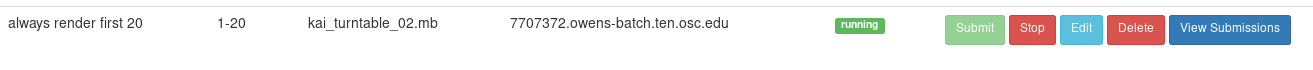
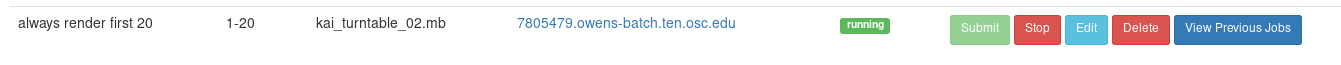
doc updates for job arrays

diff --git a/README.md b/README.md
@@ -88,7 +88,7 @@ Once you've created the settings you can always go back and edit it through the 
 And, for whatever reason, you decide you don't want it anymore simply press the ![edit](/docs/imgs/delete.PNG) button
 to delete it.
 
-## Submitting jobs and finding the output
+## Submitting jobs
 
 Now that you have a job all configured you're ready to submit it. to do so, Simply press the 
  ![submit](/docs/imgs/submit.PNG) button. 
@@ -106,19 +106,45 @@ Note how the  ![submit](/docs/imgs/submit.PNG) and ![stop](/docs/imgs/stop.PNG) 
 on if the job is currently running or not.  Now that the job is running, you may not submit a new job and you may stop
 the current job.  Once it is complete, then you may not stop it (becuase you can't) and you may submit a new job.
 
-In this example `7707372.owens-batch.ten.osc.edu` is the job id and we can view it's output under the project's `batch_jobs` directory. 
+## Finding the output
 
-There will now be a `batch_jobs/7707372.owens-batch.ten.osc.edu/7707372.owens-batch.ten.osc.edu.out` output file which is the log for
-this job. If you're having issues rendering files, look at these log files for errors.
+In this example `7805479.owens-batch.ten.osc.edu` is the job id and we can find it's output directory simply by clicking
+on the the job id.
 
-Specifically near the bottom, where you should see messages like this.  If you need to increase the log level, see [below](#Extra-arguements)
-on how to do that.
+There will now be a directory like `batch_jobs/1567629055` and a file `maya-render.7805479` which is the output log for
+this job. If you're having issues rendering files, look at these log files for errors. If you need to increase the 
+log level, see [below](#Extra-arguements) on how to do that.
+
+Near the bottom, where you should see messages like this.  The phrase 'exit status' is an indication on how the job
+finished and there is help table [below](###Exit-status'-from-Torque) to tell you what they mean.
 ```bash
 Scene /users/PZS0714/johrstrom/maya/projects/MasterProject/scenes/kai_turntable_02.mb completed.
 // Maya exited with status 0
 ended at Fri Aug 30 10:00:16 EDT 2019
 ended with status 0
 ```
+
+### Finding the output for multi-node jobs
+
+If you chose to render on more than one node (machine) then you will have several output files like the image below.
+You'll have one for every node. 
+
+![subseveral_output_filesmit](/docs/imgs/several_output_files.PNG)
+
+This application splits the total number of frames you want to render across all the nodes you want to use (with
+the remainder going to the last node). 
+
+For example if you want to render 20 frames and you want to use 3 nodes, it'll work like this table below:
+
+|Frames|Node|
+|:----:|:-------:|
+|1-6|1|
+|7-12|2|
+|13-20|3|
+
+So if you need to debug frames 9, 10 and 11 you'll need to look at the output file for node to, ending in `-2`. In the 
+image above it's `maya-render.o7805462-2`.  
+
 
 ## Exit status' from Torque
 
